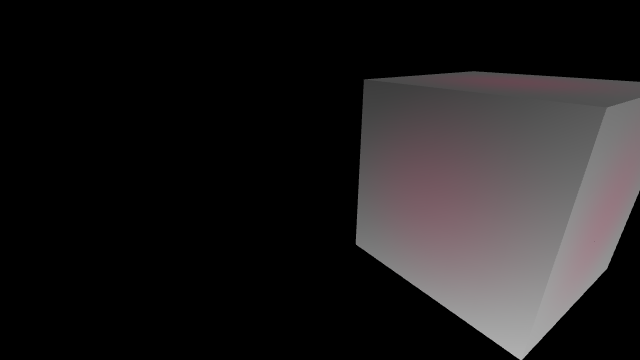
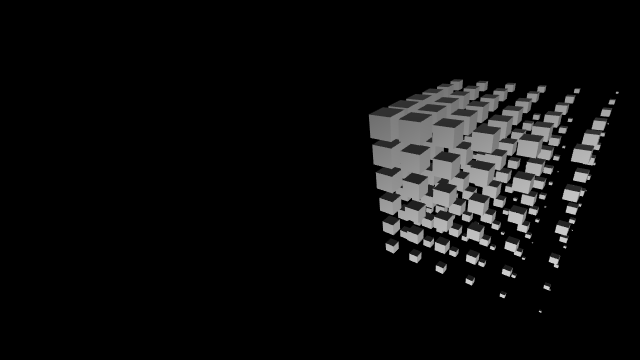
dev changes

Changed region(s): [[0.5312, 0.1833, 1.0, 1.0]]

diff --git a/src/ops/base/Ops.Physics.World/Ops.Physics.World.js b/src/ops/base/Ops.Physics.World/Ops.Physics.World.js
@@ -1,7 +1,7 @@
 const exec = op.inTrigger("Exec"),
 
     reset = op.inTriggerButton("Reset"),
-    doDraw = op.inValueBool("Draw Bodies", false),
+    doDraw = op.inValueBool("Draw Bodies", true),
     groundPlane = op.inValueBool("Groundplane", false),
 
     gravX = op.inValue("Gravity X"),
@@ -43,7 +43,6 @@ function setGravity()
 
 function setup()
 {
-    console.log("world setup");
     world = new CANNON.World();
     world.uuid = CABLES.uuid();
 
@@ -109,6 +108,9 @@ function draw()
         // wireSphere.render(cgl, 0.05);
         marker.draw(cgl, 0.8);
 
+        if (world.bodies[i].raycastHit)meshCube.colorShader.setColor([1, 0, 1, 0]);
+        else meshCube.colorShader.setColor([0, 1, 1, 1]);
+
         if (world.bodies[i].shapes[0].type == CANNON.Shape.types.BOX)
         {
             meshCube.render(
@@ -116,10 +118,12 @@ function draw()
                 world.bodies[i].shapes[0].halfExtents.y,
                 world.bodies[i].shapes[0].halfExtents.z);
         }
-        else if (world.bodies[i].shapes[0].type == CANNON.Shape.types.PLANE) console.log("plane!");
+        else if (world.bodies[i].shapes[0].type == CANNON.Shape.types.PLANE)
+        {
+            console.log("plane!");
+        }
         else if (world.bodies[i].shapes[0].type == CANNON.Shape.types.SPHERE)
         {
-            // console.log("sphere!");
             wireSphere.render(cgl, 1.0);
         }
         else console.log("unknown!", world.bodies[i].shapes[0].type);
@@ -136,6 +140,7 @@ function draw()
 exec.onTriggered = function ()
 {
     if (!world)setup();
+    const old = cgl.frameStore.world;
     cgl.frameStore.world = world;
 
     next.trigger();
@@ -150,8 +155,8 @@ exec.onTriggered = function ()
         world.step(fixedTimeStep, dt, maxSubSteps);
     }
 
-
     lastTime = time;
 
     if (doDraw.get()) draw();
+    cgl.frameStore.world = old;
 };

diff --git a/src/ops/base/Ops.Physics.CastRay/Ops.Physics.CastRay.js b/src/ops/base/Ops.Physics.CastRay/Ops.Physics.CastRay.js
@@ -33,6 +33,10 @@ const
     fromY = op.outValue("from y"),
     fromZ = op.outValue("from z"),
 
+    bodyX = op.outValue("Body x"),
+    bodyY = op.outValue("Body y"),
+    bodyZ = op.outValue("Body z"),
+
     outName = op.outString("Name"),
 
     cgl = op.patch.cgl;
@@ -114,6 +118,7 @@ function setRay(world)
 
     results.length = 0;
     // console.log("---");
+
     world.raycastAll(
         new CANNON.Vec3(origin[0], origin[1], origin[2]),
         new CANNON.Vec3(to[0], to[1], to[2]),
@@ -121,7 +126,6 @@ function setRay(world)
         function (r)
         {
             // todo sort all results by distance to find closest ?
-
 
             // check if visible on screen or behind cam...
             const pos = vec3.create();
@@ -144,6 +148,9 @@ function setRay(world)
 
 function render()
 {
+    next.trigger();
+
+
     const world = cgl.frameStore.world;
     if (!world) return;
 
@@ -175,6 +182,10 @@ function render()
             // rayResult.body.dispatchEvent({type:"raycasthit"});
             hitBody = rayResult.body;
             hitBody.raycastHit = true;
+
+            bodyX.set(hitBody.position.x);
+            bodyY.set(hitBody.position.y);
+            bodyZ.set(hitBody.position.z);
         }
         else outName.set(null);
 
@@ -199,7 +210,4 @@ function render()
 
     for (let i = 0; i < world.bodies.length; i++)
         if (world.bodies[i] != hitBody)world.bodies[i].raycastHit = false;
-
-
-    next.trigger();
 }

diff --git a/src/ops/base/Ops.Physics.PhysicsBodiesArray/Ops.Physics.PhysicsBodiesArray.js b/src/ops/base/Ops.Physics.PhysicsBodiesArray/Ops.Physics.PhysicsBodiesArray.js
@@ -173,6 +173,8 @@ function setBodyPositions(pos)
 {
     if (!pos)pos = inPositions.get();
 
+    const vpos = vec3.create();
+
     // console.log(pos);
     for (let i = 0; i < pos.length; i += 3)
     {
@@ -180,11 +182,18 @@ function setBodyPositions(pos)
 
         if (!body) continue;
 
-        vec3.transformMat4(vec, empty, cgl.mMatrix);
+        // vec3.transformMat4(vec, empty, cgl.mMatrix);
+        // resultsPositions[i + 0] = body.position.x = vec[0] + pos[i + 0];
+        // resultsPositions[i + 1] = body.position.y = vec[1] + pos[i + 1];
+        // resultsPositions[i + 2] = body.position.z = vec[2] + pos[i + 2];
 
-        resultsPositions[i + 0] = body.position.x = vec[0] + pos[i + 0];
-        resultsPositions[i + 1] = body.position.y = vec[1] + pos[i + 1];
-        resultsPositions[i + 2] = body.position.z = vec[2] + pos[i + 2];
+        vpos[0] = pos[i + 0];
+        vpos[1] = pos[i + 1];
+        vpos[2] = pos[i + 2];
+        vec3.transformMat4(vpos, vpos, cgl.mMatrix);
+        resultsPositions[i + 0] = body.position.x = vpos[0];
+        resultsPositions[i + 1] = body.position.y = vpos[1];
+        resultsPositions[i + 2] = body.position.z = vpos[2];
     }
 }
 function updatePositions()

diff --git a/src/ops/base/Ops.Gl.ShaderEffects.ColorArea_v3/Ops.Gl.ShaderEffects.ColorArea_v3.js b/src/ops/base/Ops.Gl.ShaderEffects.ColorArea_v3/Ops.Gl.ShaderEffects.ColorArea_v3.js
@@ -5,7 +5,7 @@ const
     inAmount = op.inValueSlider("Amount", 0.5),
     inFalloff = op.inValueSlider("Falloff", 0),
     inInvert = op.inValueBool("Invert"),
-    inBlend = op.inSwitch("Blend ", ["Normal", "Multiply"], "Normal"),
+    inBlend = op.inSwitch("Blend ", ["Normal", "Multiply", "Opacity"], "Normal"),
     r = op.inValueSlider("r", Math.random()),
     g = op.inValueSlider("g", Math.random()),
     b = op.inValueSlider("b", Math.random()),
@@ -67,7 +67,9 @@ updateDefines();
 function updateDefines()
 {
     mod.toggleDefine("MOD_BLEND_NORMAL", inBlend.get() == "Normal");
-    mod.toggleDefine("MOD_BLEND_MULTIPLY", inBlend.get() != "Normal");
+    mod.toggleDefine("MOD_BLEND_OPACITY", inBlend.get() == "Opacity");
+    mod.toggleDefine("MOD_BLEND_MULTIPLY", inBlend.get() == "Multiply");
+
 
     mod.toggleDefine("MOD_AREA_INVERT", inInvert.get());
     mod.toggleDefine("MOD_WORLDSPACE", inWorldSpace.get());

diff --git a/src/ops/base/Ops.Value.ToggleNumber/Ops.Value.ToggleNumber.js b/src/ops/base/Ops.Value.ToggleNumber/Ops.Value.ToggleNumber.js
@@ -1,17 +1,21 @@
 // inputs
-var value0port = op.inValue("Value 0", 0);
-var value1port = op.inValue("Value 1", 1);
-var useValue1Port = op.inValueBool("Use Value 1", false);
+const useValue1Port = op.inValueBool("Use Value 1", false);
+const value0port = op.inValue("Value 0", 0);
+const value1port = op.inValue("Value 1", 1);
 
 // outputs
-var outValuePort = op.outValue("Out Value", 0);
+const outValuePort = op.outValue("Out Value", 0);
 
 // functions
-function setOutput() {
-    var useValue1 = useValue1Port.get();
-    if(useValue1) {
+function setOutput()
+{
+    const useValue1 = useValue1Port.get();
+    if (useValue1)
+    {
         outValuePort.set(value1port.get());
-    } else {
+    }
+    else
+    {
         outValuePort.set(value0port.get());
     }
 }

diff --git a/src/ops/base/Ops.Gl.Phong.PhongMaterial_v5/Ops.Gl.Phong.PhongMaterial_v5.js b/src/ops/base/Ops.Gl.Phong.PhongMaterial_v5/Ops.Gl.Phong.PhongMaterial_v5.js
@@ -139,7 +139,7 @@ const inAoTexture = op.inTexture("AO Texture");
 const inEmissiveTexture = op.inTexture("Emissive Texture");
 const inAlphaTexture = op.inTexture("Opacity Texture");
 const inEnvTexture = op.inTexture("Environment Map");
-const inLuminanceMaskTexture = op.inTexture("Luminance Mask");
+const inLuminanceMaskTexture = op.inTexture("Env Map Mask");
 op.setPortGroup("Textures", [inDiffuseTexture, inSpecularTexture, inNormalTexture, inAoTexture, inEmissiveTexture, inAlphaTexture, inEnvTexture, inLuminanceMaskTexture]);
 
 

diff --git a/src/ops/base/Ops.Gl.Performance/Ops.Gl.Performance.js b/src/ops/base/Ops.Gl.Performance/Ops.Gl.Performance.js
@@ -85,6 +85,7 @@ op.onDelete = function ()
 
 function updatePos()
 {
+    canvas.style["pointer-events"] = "none";
     if (position.get() == "top")
     {
         canvas.style.top = element.style.top = "0px";

diff --git a/src/ops/base/Ops.Vars.SetVariableByTrigger/Ops.Vars.SetVariableByTrigger.js b/src/ops/base/Ops.Vars.SetVariableByTrigger/Ops.Vars.SetVariableByTrigger.js
@@ -47,5 +47,6 @@ function updateName()
 
 function update()
 {
-    op.patch.setVarValue(op.varName.get(), val.get());
+    const v = op.patch.setVarValue(op.varName.get(), val.get());
+    v.type = "number";
 }
